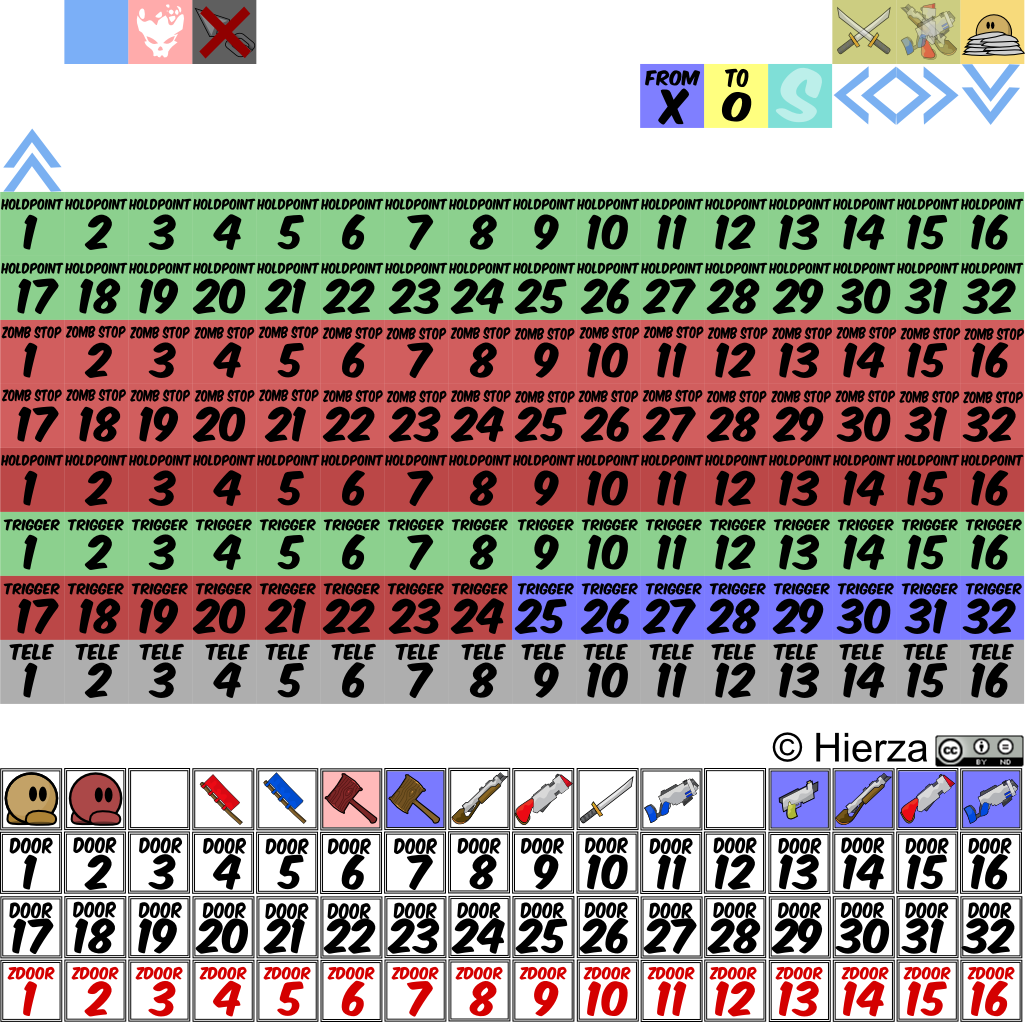
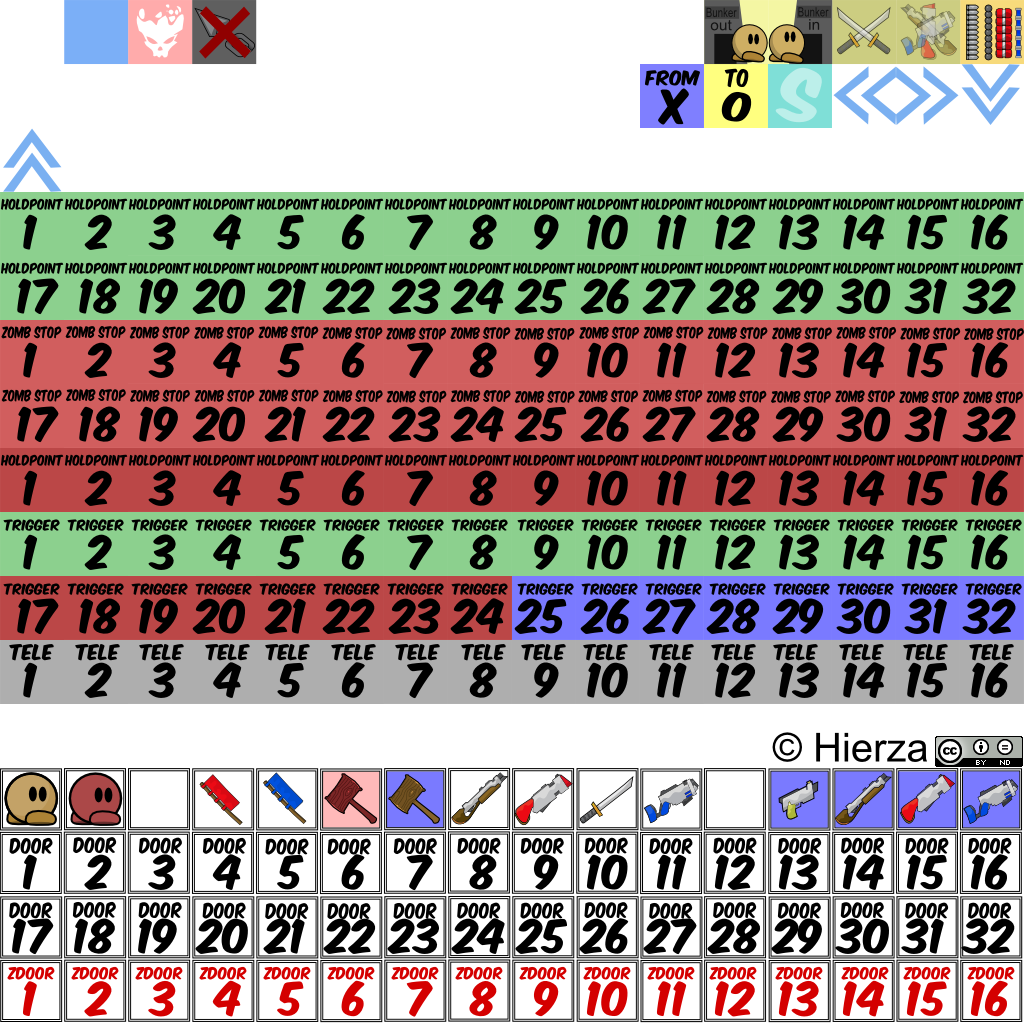
Updated entities and changed tilepos due to error from Hierza ^^

Changed region(s): [[0.0, 0.182, 1.0, 1.0], [0.625, 0.0, 1.0, 0.1213]]

diff --git a/src/game/mapitems.h b/src/game/mapitems.h
@@ -53,8 +53,8 @@ enum
 	TILE_SOLID,
 	TILE_DEATH,
 	TILE_NOHOOK,
-	TILE_BUNKERIN=11,
-	TILE_BUNKEROUT,
+	TILE_BUNKEROUT=11,
+	TILE_BUNKERIN,
 	TILE_NONINJA,
 	TILE_NOWEAPONS,
 	TILE_AMMO,
